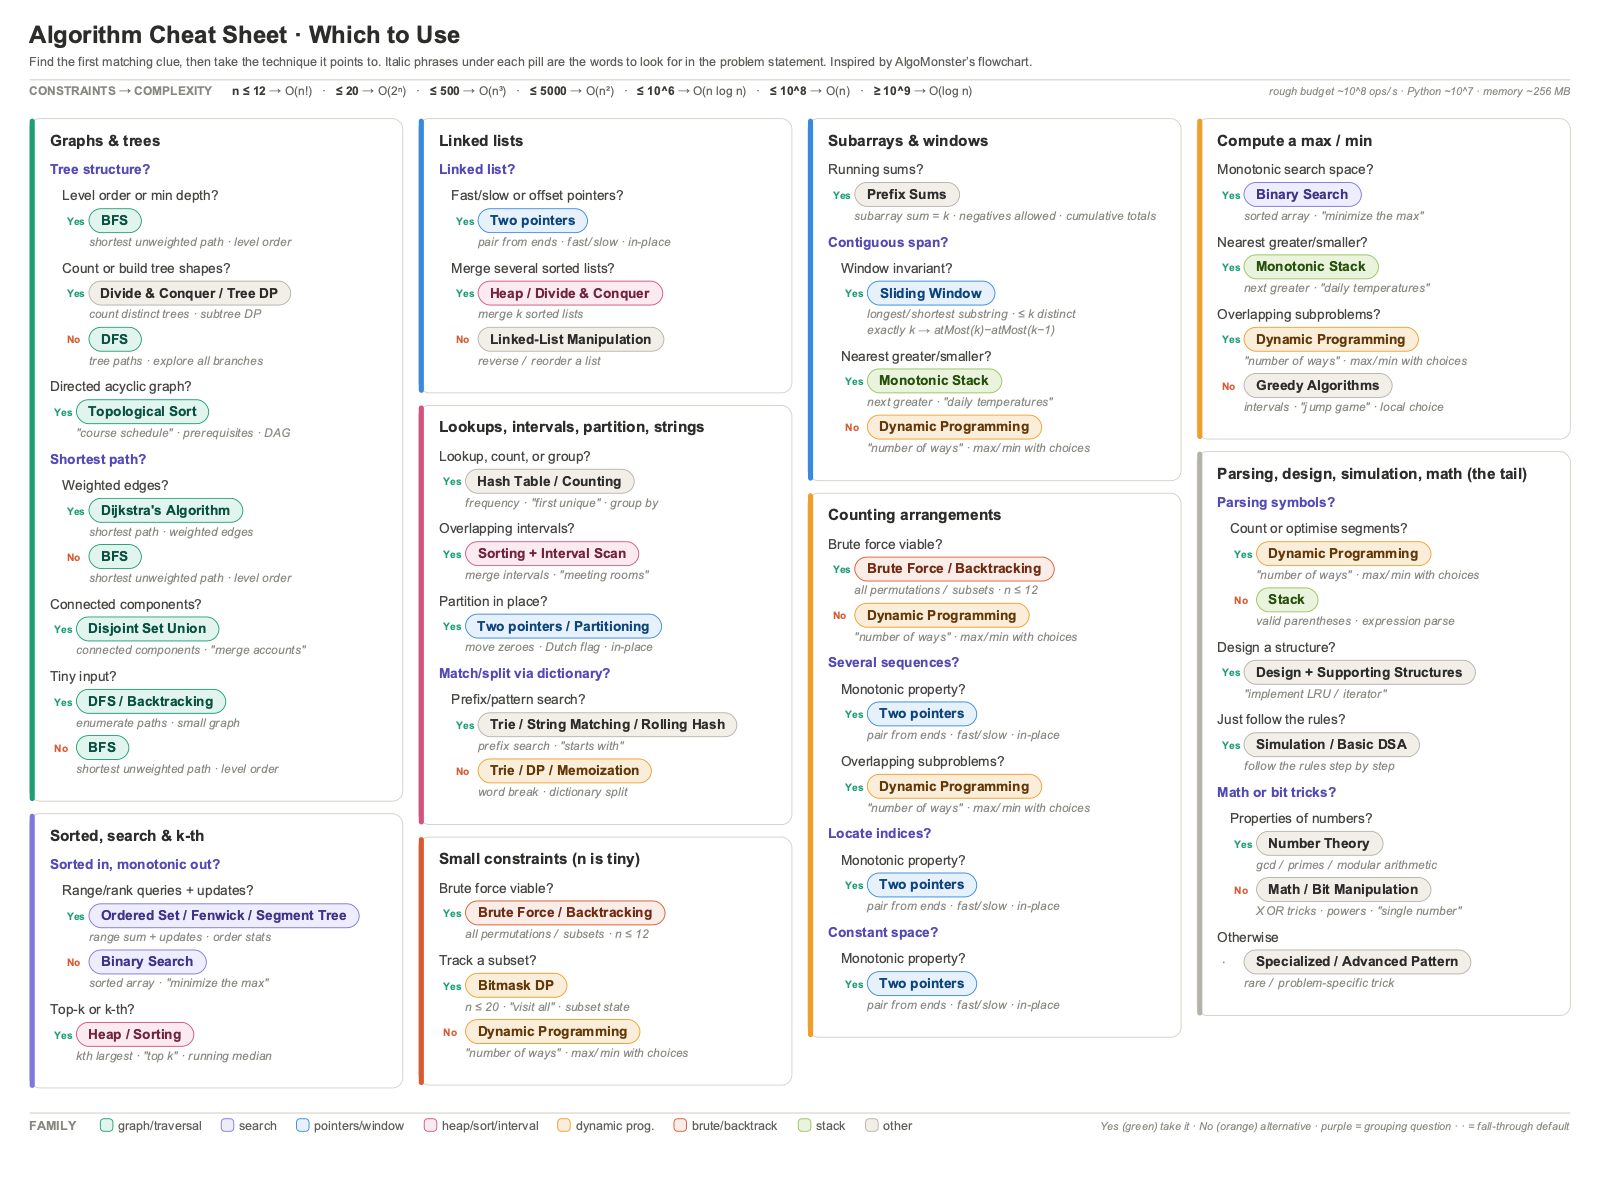
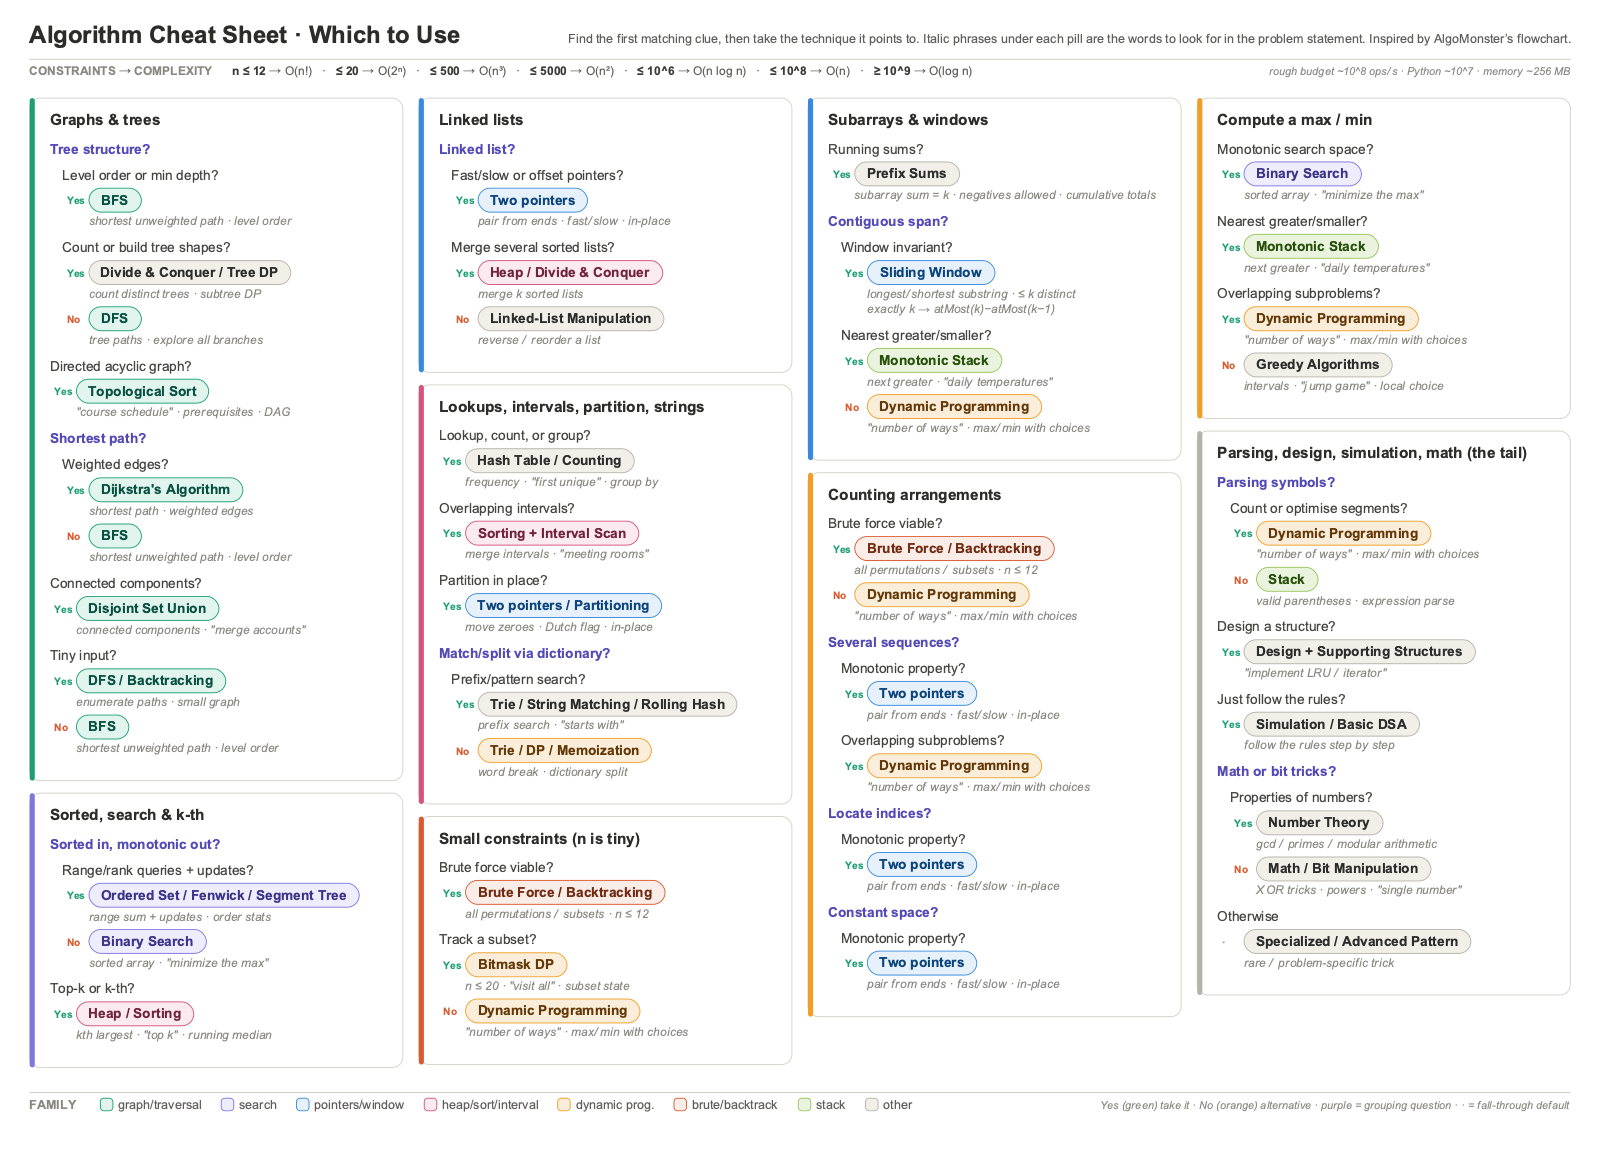
Right-align subtitles beside the titles on both pages

diff --git a/front.py b/front.py
@@ -20,7 +20,7 @@ M = 26
 NCOL = 4
 GUT = 14
 COLW = (W - 2*M - (NCOL-1)*GUT) / NCOL
-TOP = 104
+TOP = 86
 
 PILL_H = 21
 SEC_PAD = 11
@@ -225,11 +225,13 @@ def build_front_svg(out_path=None, src=None):
     svg.append(f'<svg xmlns="http://www.w3.org/2000/svg" width="{W}" height="{pageH:.0f}" viewBox="0 0 {W} {pageH:.0f}" font-family="Arial, Helvetica, sans-serif">')
     svg.append(f'<rect x="0" y="0" width="{W}" height="{pageH:.0f}" fill="#ffffff"/>')
     svg.append(f'<text x="{M}" y="38" font-size="21" font-weight="700" fill="#2C2C2A">Algorithm Cheat Sheet · Which to Use</text>')
-    svg.append(f'<text x="{M}" y="58" font-size="11" fill="#5F5E5A">Find the first matching clue, then take the technique it points to. Italic phrases under each pill are the words to look for in the problem statement. Inspired by AlgoMonster’s flowchart.</text>')
-    # divider below the subtitle, then the constraints → complexity strip beneath it
-    svg.append(f'<line x1="{M}" y1="70" x2="{W-M}" y2="70" stroke="#D3D1C7" stroke-width="1"/>')
+    # subtitle: right-aligned beside the title, sharing its baseline (bottoms colinear)
+    _sub = "Find the first matching clue, then take the technique it points to. Italic phrases under each pill are the words to look for in the problem statement. Inspired by AlgoMonster’s flowchart."
+    svg.append(f'<text x="{W-M:.0f}" y="38" font-size="11" fill="#5F5E5A" text-anchor="end">{esc(_sub)}</text>')
+    # divider below the title/subtitle row, then the constraints strip beneath it
+    svg.append(f'<line x1="{M}" y1="52" x2="{W-M}" y2="52" stroke="#D3D1C7" stroke-width="1"/>')
     # constraints → complexity — the first filter: n caps the complexity you can afford
-    _sy = 84
+    _sy = 66
     _bk = [('n ≤ 12', 'O(n!)'), ('≤ 20', 'O(2ⁿ)'), ('≤ 500', 'O(n³)'), ('≤ 5000', 'O(n²)'),
            ('≤ 10^6', 'O(n log n)'), ('≤ 10^8', 'O(n)'), ('≥ 10^9', 'O(log n)')]
     _head = ('<tspan font-weight="700" fill="#888780">CONSTRAINTS </tspan>'

diff --git a/back.py b/back.py
@@ -20,7 +20,7 @@ M = 26
 NCOL = 4
 GUT = 14
 COLW = (W - 2*M - (NCOL-1)*GUT) / NCOL
-TOP = 86
+TOP = 68
 
 # --- card metrics ----------------------------------------------------------
 PAD = 11          # inner padding of a card
@@ -178,8 +178,9 @@ def build_back_svg(out_path=None, src=None, cards=None):
            f'viewBox="0 0 {W} {pageH:.0f}" font-family="Arial, Helvetica, sans-serif">']
     svg.append(f'<rect x="0" y="0" width="{W}" height="{pageH:.0f}" fill="#ffffff"/>')
     svg.append(f'<text x="{M}" y="38" font-size="21" font-weight="700" fill="#2C2C2A">Algorithm Cheat Sheet · How They Work</text>')
-    svg.append(f'<text x="{M}" y="58" font-size="11" fill="#5F5E5A">The mechanism behind each technique on the front — minimal Python-ish templates, not full implementations. Badge = typical time complexity.</text>')
-    svg.append(f'<line x1="{M}" y1="70" x2="{W-M}" y2="70" stroke="#D3D1C7" stroke-width="1"/>')
+    # subtitle: right-aligned beside the title, sharing its baseline (bottoms colinear)
+    svg.append(f'<text x="{W-M:.0f}" y="38" font-size="11" fill="#5F5E5A" text-anchor="end">The mechanism behind each technique on the front — minimal Python-ish templates, not full implementations. Badge = typical time complexity.</text>')
+    svg.append(f'<line x1="{M}" y1="52" x2="{W-M}" y2="52" stroke="#D3D1C7" stroke-width="1"/>')
     svg += frag
 
     fy = max(colY) + 26